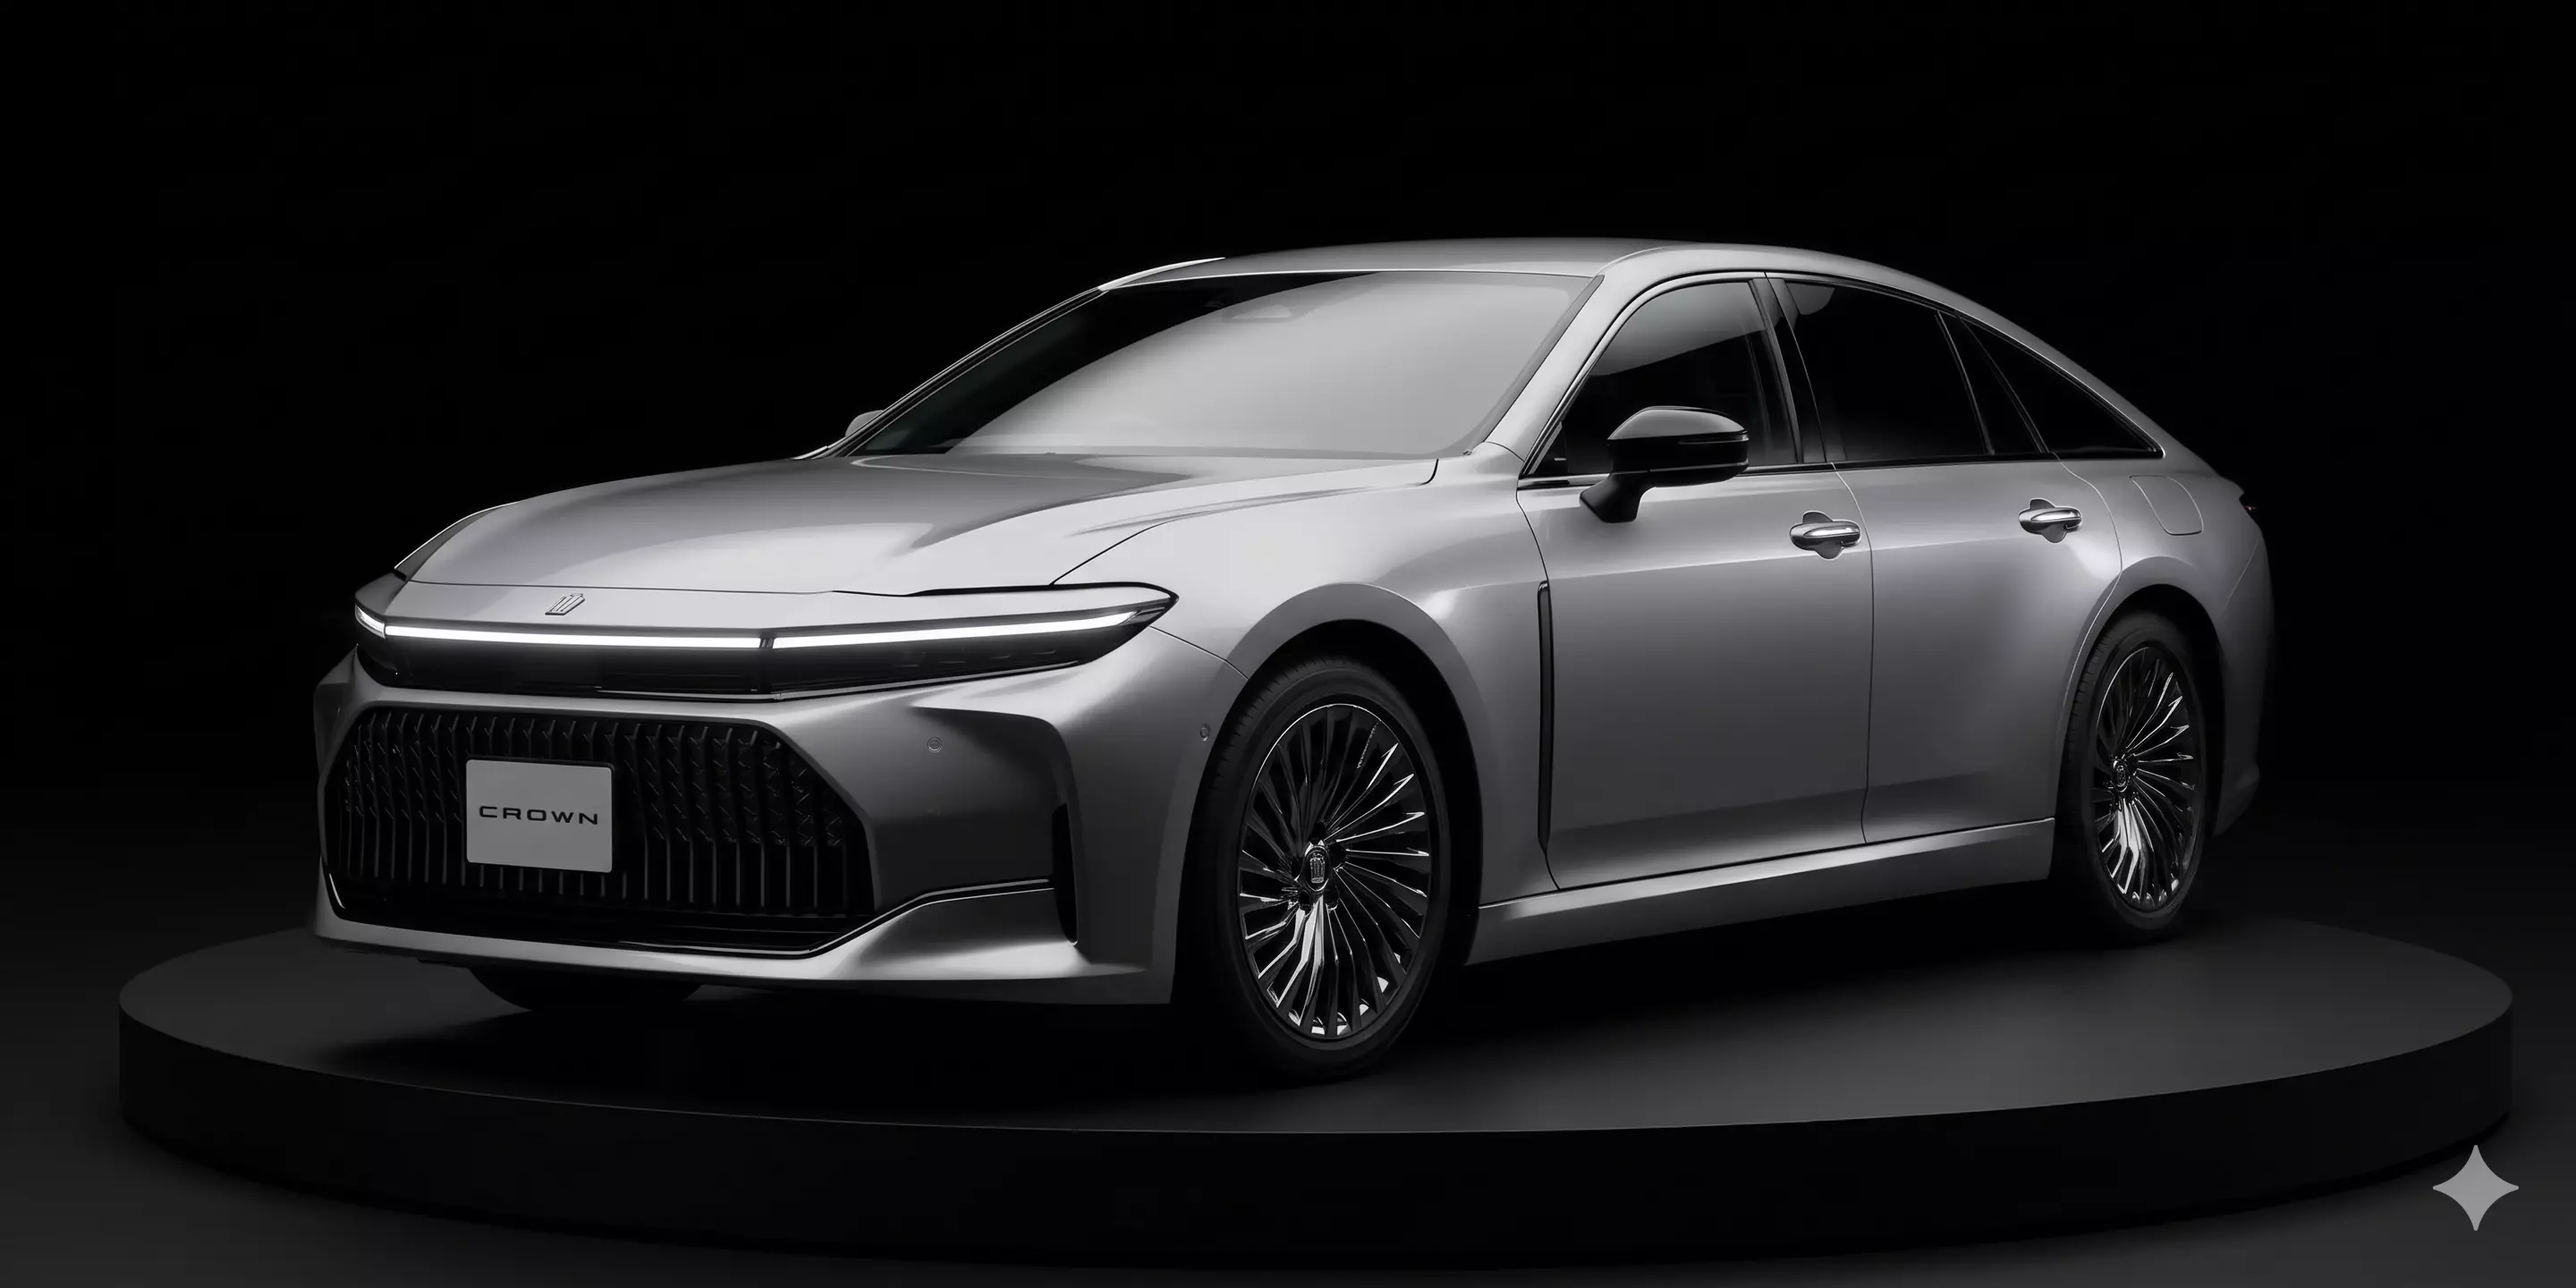
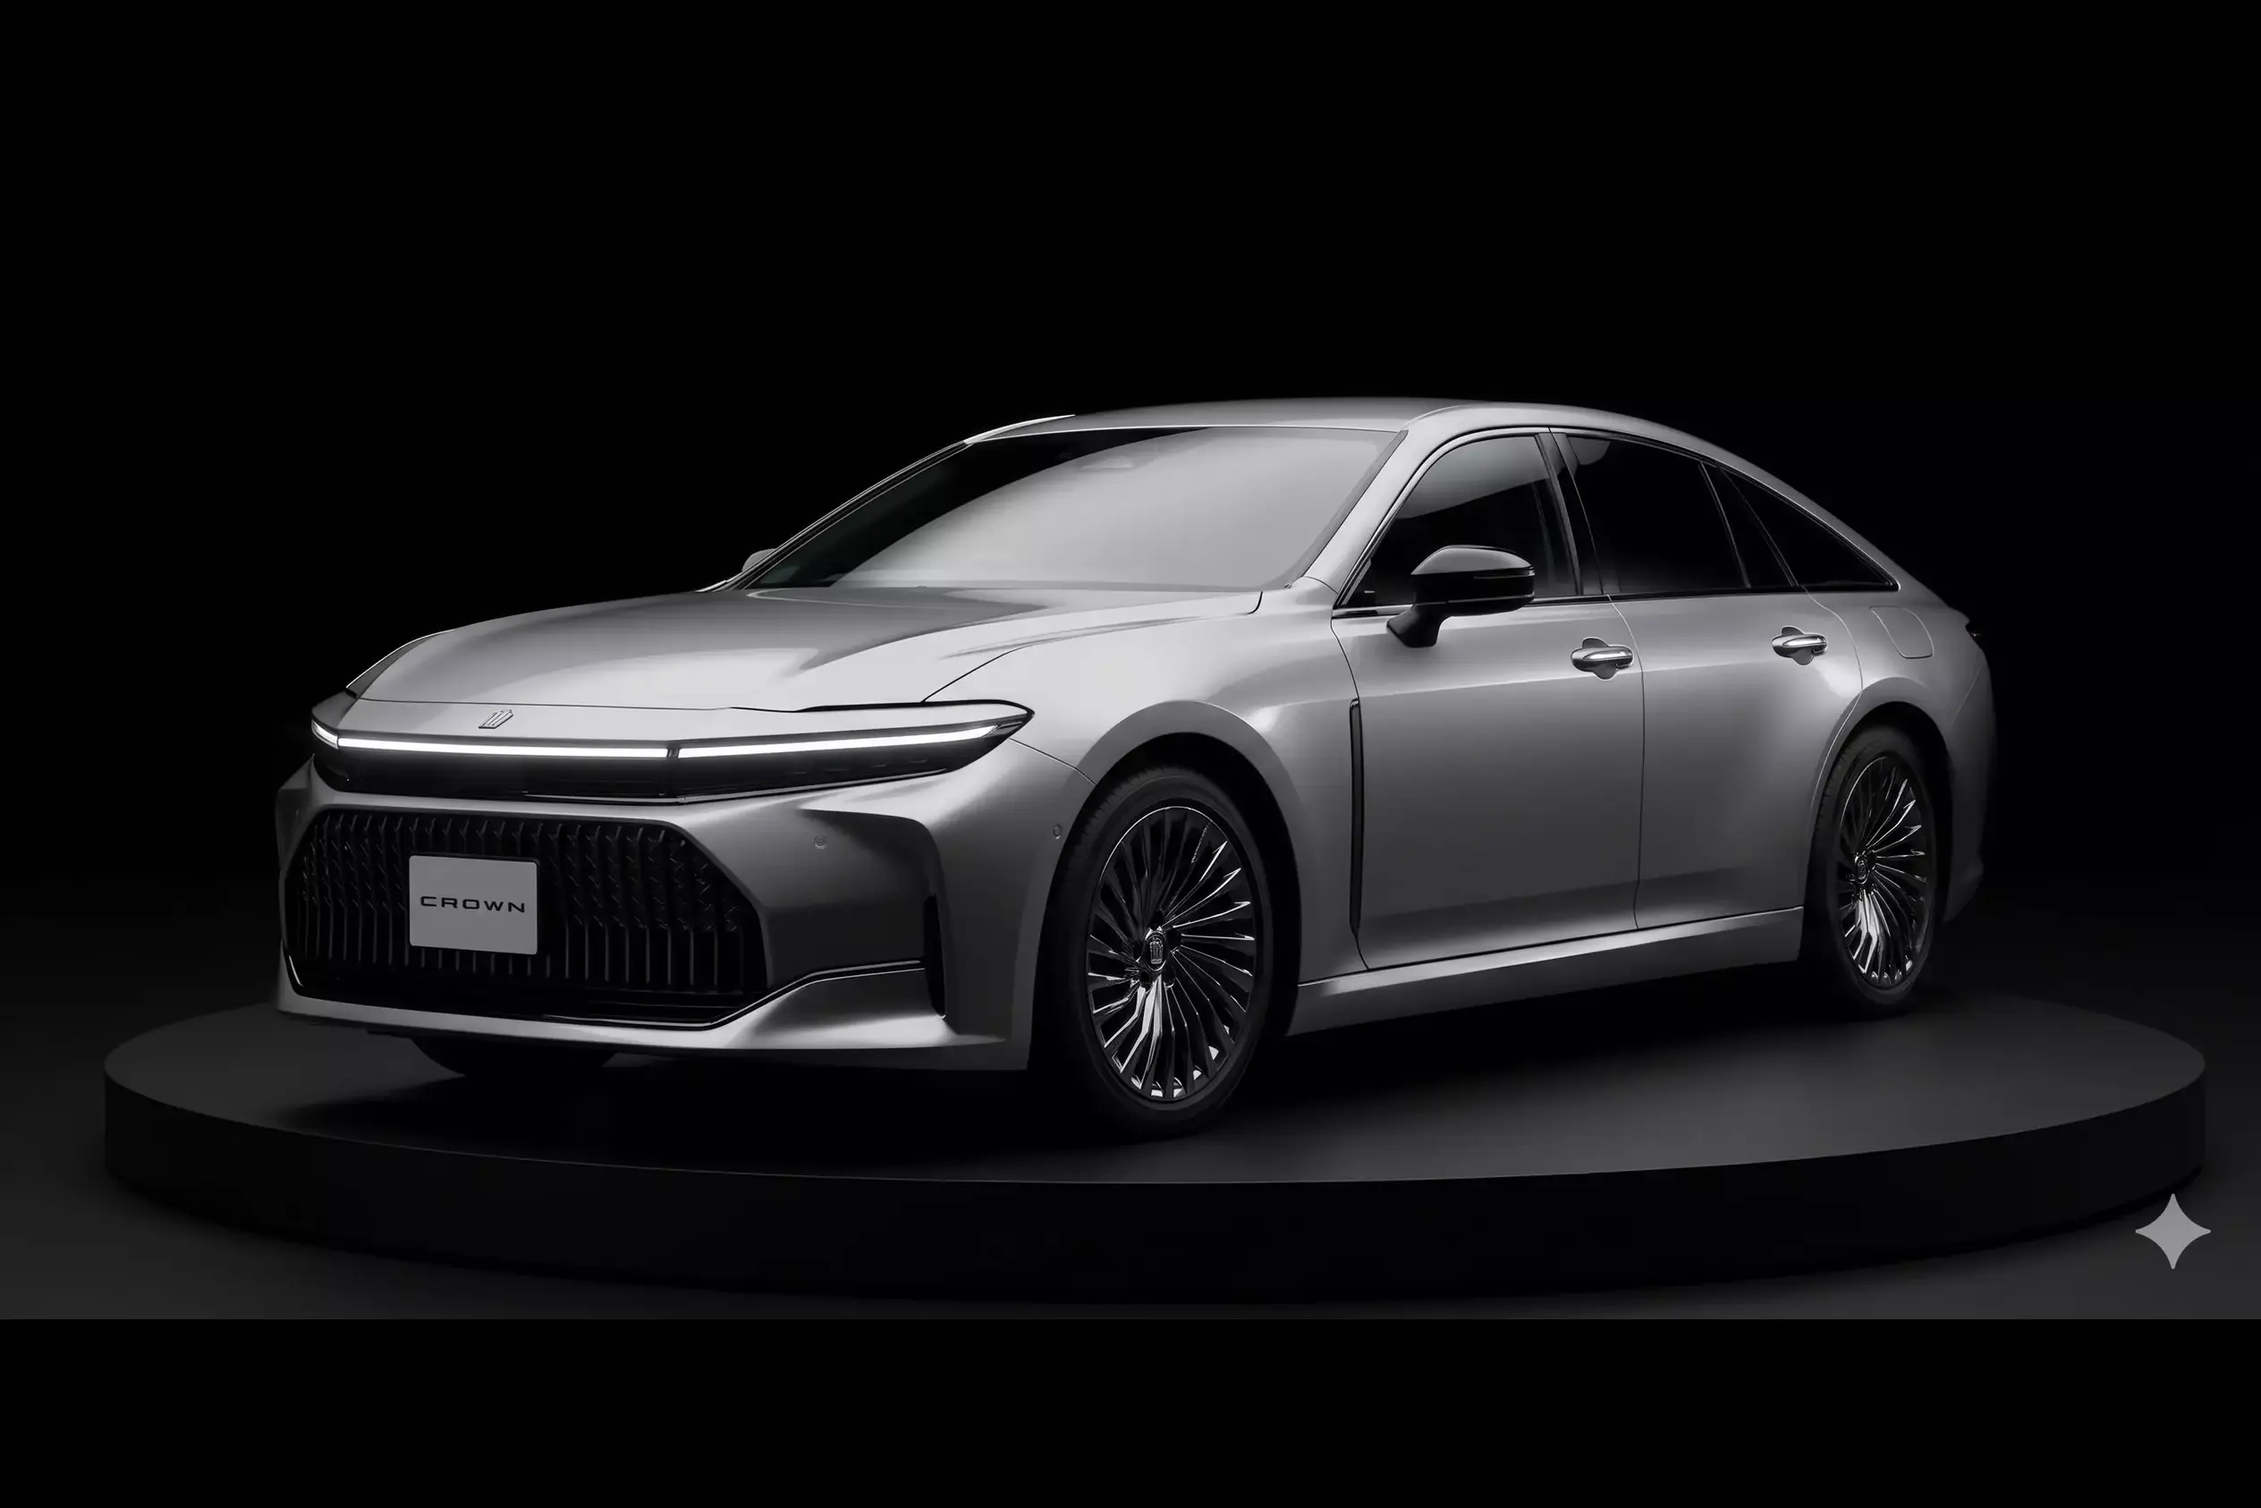
Add files via upload

Changed region(s): [[0.0, 0.1562, 1.0, 1.0]]

diff --git a/global.css b/global.css
@@ -677,6 +677,24 @@ button {
 /* Jedna karta — na desktopu jsou vidět přesně 2 vedle sebe.
    flex-basis je pevně daný výpočtem (ne auto), jinak by si flexbox vzal
    obří přirozenou šířku obrázku a karty by byly špatně široké. */
+/* Wrapper drží proporce — auto nikdy nepřepadne */
+.expo-carousel-img-wrap {
+    width: 100%;
+    aspect-ratio: 16 / 9;
+    background: var(--clr-bg-2);
+    overflow: hidden;
+    display: flex;
+    align-items: center;
+    justify-content: center;
+}
+
+.expo-carousel-img-wrap img {
+    width: 100%;
+    height: 100%;
+    object-fit: contain;
+    display: block;
+}
+
 .expo-carousel-slide {
     flex: 0 0 calc((100% - 1.25rem) / 2);
     position: relative;
@@ -730,6 +748,8 @@ button {
     font-weight: 700;
     color: #fff;
     line-height: 1.3;
+    overflow-wrap: break-word;
+    word-break: break-word;
 }
 
 .expo-carousel-desc {
@@ -896,8 +916,15 @@ button {
 }
 
 @keyframes countdownFadeIn {
-    from { opacity: 0; transform: translateY(12px); }
-    to   { opacity: 1; transform: translateY(0); }
+    from {
+        opacity: 0;
+        transform: translateY(12px);
+    }
+
+    to {
+        opacity: 1;
+        transform: translateY(0);
+    }
 }
 
 .countdown-opened-icon {
@@ -908,8 +935,15 @@ button {
 }
 
 @keyframes countdownPulse {
-    0%, 100% { transform: scale(1); }
-    50%      { transform: scale(1.12); }
+
+    0%,
+    100% {
+        transform: scale(1);
+    }
+
+    50% {
+        transform: scale(1.12);
+    }
 }
 
 .countdown-opened-title {
@@ -1746,10 +1780,62 @@ button {
         display: block;
     }
 
-    /* Hero */
+    /* Hero — mobilní vertikální stack:
+       1) text nahoře na tmavém pozadí (čitelný bez overlay)
+       2) obrázek auta pod textem (contain — celé viditelné)
+       3) CTA tlačítka na šířku pro snadné klepnutí
+       4) tečky navigace dole */
+    .hero {
+        height: auto;
+        min-height: auto;
+        flex-direction: column;
+        align-items: stretch;
+    }
+
     .hero-content {
-        padding: 0 5%;
-        padding-top: var(--nav-h);
+        position: relative;
+        z-index: 2;
+        padding: calc(var(--nav-h) + 1.5rem) 5% 2rem;
+        background: var(--clr-bg);
+        max-width: none;
+        order: 1;
+        text-align: center;
+    }
+
+    .hero-sub {
+        margin-left: auto;
+        margin-right: auto;
+    }
+
+    .hero-bg {
+        position: relative;
+        order: 2;
+        height: 56vw;
+        min-height: 220px;
+        max-height: 380px;
+        background: var(--clr-bg);
+    }
+
+    /* Auto celé viditelné, žádné oříznutí */
+    .hero-slide {
+        background-size: contain;
+        background-position: center;
+        background-repeat: no-repeat;
+    }
+
+    /* Overlay není potřeba — text leží na tmavém pozadí */
+    .hero-overlay {
+        display: none;
+    }
+
+    .hero-dots {
+        position: relative;
+        bottom: auto;
+        left: auto;
+        order: 3;
+        justify-content: center;
+        padding: 1rem 0 2rem;
+        background: var(--clr-bg);
     }
 
     .hero-scroll-hint {
@@ -1760,8 +1846,10 @@ button {
         flex-direction: column;
     }
 
-    .btn-primary,
-    .btn-ghost {
+    /* Plná šířka tlačítek pro snadné thumb-tapping */
+    .hero-actions .btn-primary,
+    .hero-actions .btn-ghost {
+        width: 100%;
         text-align: center;
         justify-content: center;
     }
@@ -1796,8 +1884,9 @@ button {
         flex: 0 0 100%;
     }
 
-    .expo-carousel-slide img {
-        height: 200px;
+    /* Obrázek auta – wrapper drží 16:9 na všech šířkách */
+    .expo-carousel-img-wrap {
+        aspect-ratio: 16 / 9;
     }
 
     .expo-carousel-btn {
@@ -1808,6 +1897,11 @@ button {
 
     .expo-countdown-wrap {
         margin-bottom: 2.5rem;
+    }
+
+    /* Menší titulek karty na mobilu — zabrání přetékání dlouhých názvů */
+    .expo-carousel-title {
+        font-size: 0.95rem;
     }
 
     .cd-num {
@@ -1869,7 +1963,30 @@ button {
         gap: 2rem;
     }
 
-    /* Form */
+    .faq-left {
+        text-align: center;
+    }
+
+    /* Form & Rezervace */
+    .contact-form-col {
+        text-align: center;
+    }
+
+    .contact-form-col .res-form {
+        text-align: left;
+    }
+
+    /* Kontakt (mapa a info) */
+    .contact-map-col {
+        text-align: center;
+    }
+
+    .contact-info-item {
+        flex-direction: column;
+        align-items: center;
+        text-align: center;
+    }
+
     .form-row-2 {
         grid-template-columns: 1fr;
     }
@@ -1892,12 +2009,22 @@ button {
     .footer-top {
         grid-template-columns: 1fr;
         gap: 2rem;
+        text-align: center;
+    }
+
+    .footer-brand {
+        align-items: center;
+    }
+
+    .social-links {
+        justify-content: center;
     }
 
     .footer-bottom {
         flex-direction: column;
-        align-items: flex-start;
-        gap: 0.3rem;
+        align-items: center;
+        text-align: center;
+        gap: 0.8rem;
     }
 }
 

diff --git a/script.js b/script.js
@@ -206,7 +206,12 @@ function createExpoCarouselSlide(exhibition) {
         body.appendChild(desc);
     }
 
-    slide.append(img, body);
+    // Obal obrázku – řídí aspect-ratio, object-fit: contain (celé auto viditelné)
+    const imgWrap = document.createElement('div');
+    imgWrap.className = 'expo-carousel-img-wrap';
+    imgWrap.appendChild(img);
+
+    slide.append(imgWrap, body);
     return slide;
 }
 
